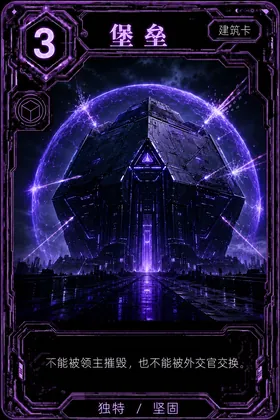
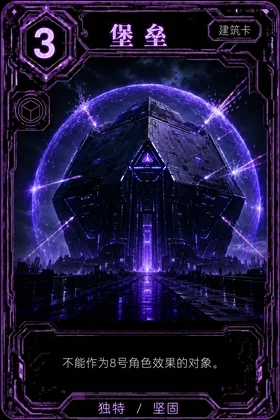
Clarify Keep immunity on card artwork

Changed region(s): [[0.1714, 0.8357, 0.8571, 0.8976], [0.7714, 0.2476, 0.8, 0.2786], [0.5429, 0.0619, 0.5714, 0.0929]]

diff --git a/public/themes/neon/manifest.js b/public/themes/neon/manifest.js
@@ -22,7 +22,8 @@
   ];
 
   function variants(folder, key) {
-    const magistrateRules = folder === 'roles' && key === 'magistrate';
+    const currentRules = (folder === 'roles' && key === 'magistrate') ||
+      (folder === 'districts' && key === 'keep');
     const updatedRules = folder === 'districts' &&
       ['ghost_town', 'laboratory', 'observatory', 'library', 'great_wall', 'quarry'].includes(key);
     // 墓地卡图曾把建造费用 5 错印成能力支付费用 1，多张角色卡已更新；
@@ -44,9 +45,9 @@
                 ? '?v=3'
                 : (versioned ? '?v=2' : ''))))));
     return {
-      thumb: base + folder + '/thumb/' + key + '.webp' + (magistrateRules ? '?v=rules-20261012' : updatedRules ? '?v=rules-20261010' : version),
+      thumb: base + folder + '/thumb/' + key + '.webp' + (currentRules ? '?v=rules-20261012' : updatedRules ? '?v=rules-20261010' : version),
       // Full-resolution artwork was recompressed; version the URL so browser/PWA caches refresh it.
-      full: base + folder + '/full/' + key + '.webp' + (magistrateRules ? '?v=rules-20261012' : updatedRules ? '?v=rules-20261010' : '?v=optimized-1')
+      full: base + folder + '/full/' + key + '.webp' + (currentRules ? '?v=rules-20261012' : updatedRules ? '?v=rules-20261010' : '?v=optimized-1')
     };
   }
 

diff --git a/public/mobile.html b/public/mobile.html
@@ -192,9 +192,9 @@ button{font:inherit} body{background:radial-gradient(circle at 50% -15%,#17335a 
 <!-- 首页 / 单人设置 / 联机大厅：与 PC 端共用同一个组件（public/components/citadels-lobby.js） -->
 <c-citadels-lobby id="lobby" mode="mobile"></c-citadels-lobby>
 
-<script src="./themes/neon/manifest.js?v=13"></script>
+<script src="./themes/neon/manifest.js?v=14"></script>
 <script src="./themes/theme-manager.js?v=4"></script>
-<script src="./src/cards.js?v=7"></script>
+<script src="./src/cards.js?v=8"></script>
 <script src="./mobile-theme.js?v=2"></script>
 <script src="./components/citadels-lobby.js?v=9"></script>
 <script src="./components/citadels-spectator.js?v=2"></script>

diff --git a/public/index.html b/public/index.html
@@ -277,9 +277,9 @@
      浏览器只在元素处于文档中时才保证音频持续播放。 -->
 <div id="voice-audio" aria-hidden="true"></div>
 
-<script src="./themes/neon/manifest.js?v=13"></script>
+<script src="./themes/neon/manifest.js?v=14"></script>
 <script src="./themes/theme-manager.js?v=4"></script>
-<script src="./src/cards.js?v=7"></script>
+<script src="./src/cards.js?v=8"></script>
 <script src="./components/citadels-lobby.js?v=9"></script>
 <script src="./components/citadels-spectator.js?v=2"></script>
 <script src="./app.js?v=107"></script>

diff --git a/public/sw.js b/public/sw.js
@@ -1,4 +1,4 @@
-const CACHE_NAME = 'citadels-shell-v86';
+const CACHE_NAME = 'citadels-shell-v87';
 // 语音 SDK（vendor/livekit-client.umd.min.js，近 600KB）故意不放进预缓存清单：
 // 它只在第一次点「语音」时才动态加载，下面的运行时缓存会在那次请求后把它存下来。
 // 放进 APP_SHELL 会让每个单机玩家都白白下载一遍。

diff --git a/src/cards.js b/src/cards.js
@@ -179,7 +179,7 @@
     "purple": {
       "effect": "immune"
     },
-    "desc": "堡垒不会被领主/外交官摧毁或交换。"
+    "desc": "不能作为8号角色效果的对象。"
   },
   {
     "name": "博物馆",
